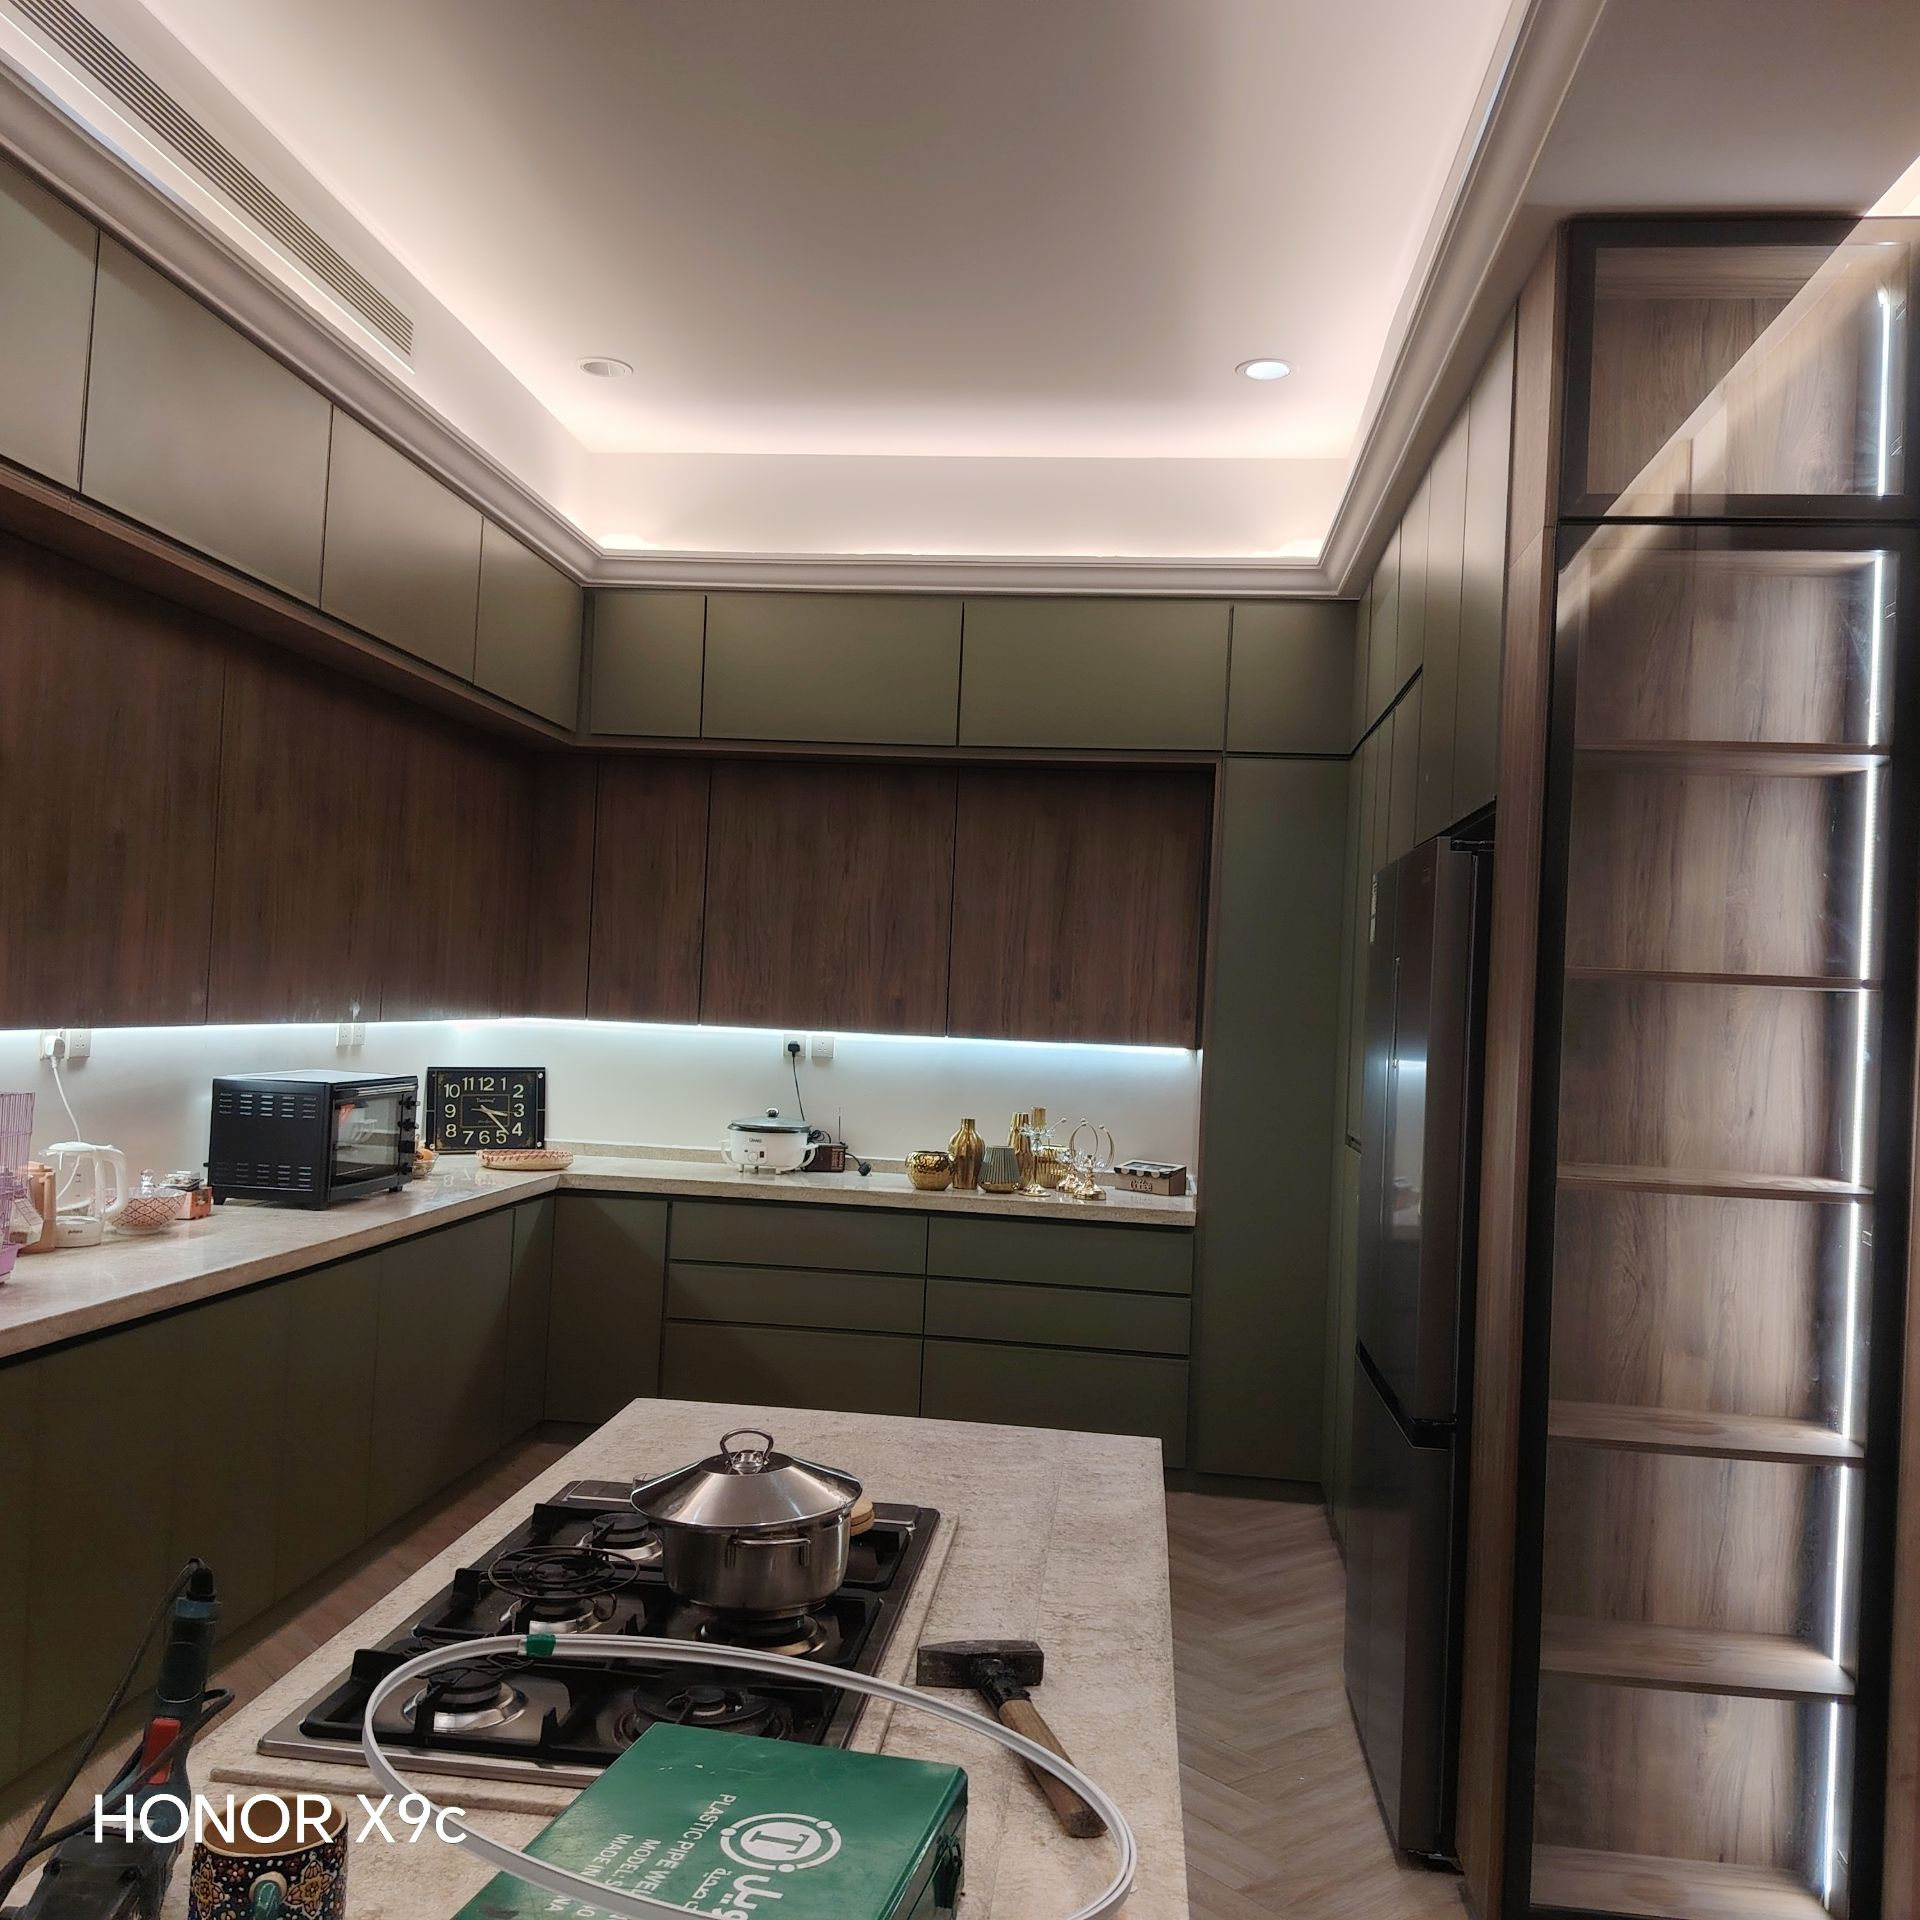
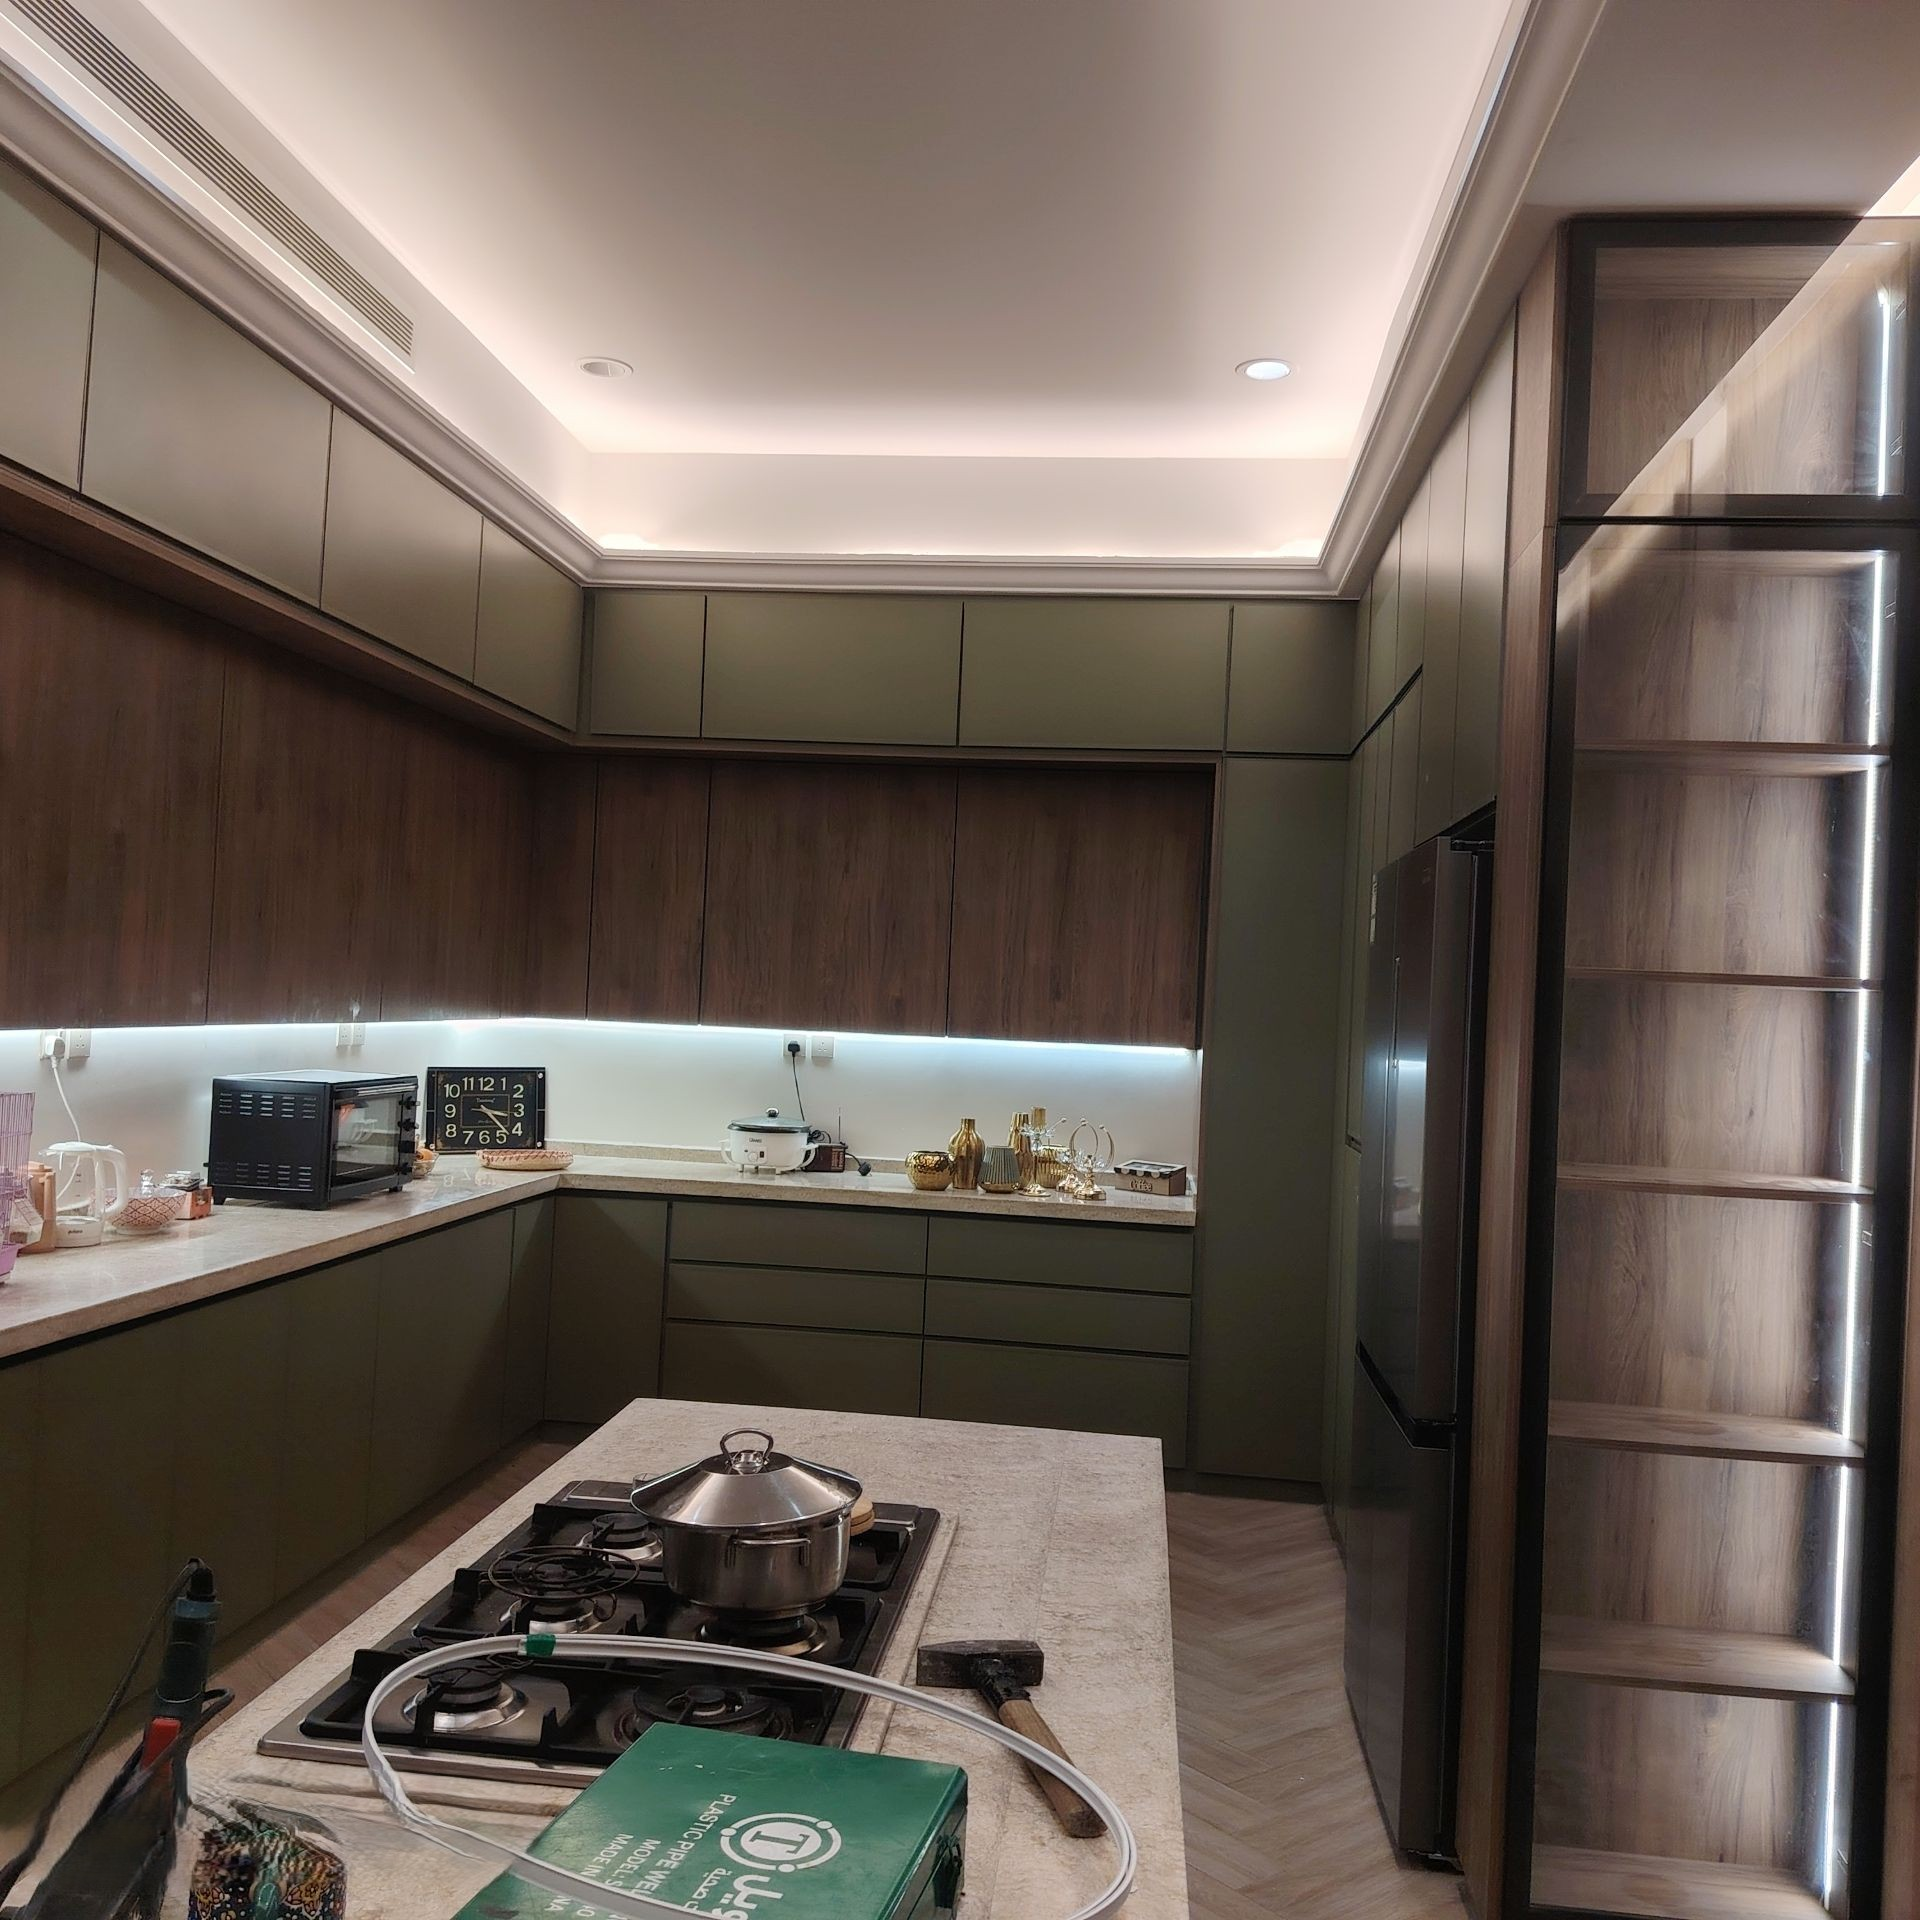
Update image attributes and service data for improved clarity and performance
- Modified image attributes in Hero.vue to include 'object-center' for better visual alignment.
- Updated serviceDrafts in index.ts with new image sources and alt texts for enhanced accuracy and consistency.
- Removed obsolete image files to streamline the asset management.

Changed region(s): [[0.0, 0.9062, 0.2812, 1.0]]

diff --git a/app/shared/data/services/index.ts b/app/shared/data/services/index.ts
@@ -66,15 +66,15 @@ const serviceDrafts: ServiceDraft[] = [
         alt: 'ثريا كريستال في السقف',
       },
       {
-        src: '/images/services/lighting-downlight-grid.jpg',
-        alt: 'سبوت موزع على السقف',
+        src: '/images/services/lighting-spot-grid.jpg',
+        alt: 'سبوت موزّع على السقف',
       },
       {
-        src: '/images/services/lighting-glass-rods.jpg',
+        src: '/images/services/123.jpg',
         alt: 'إضاءة معلّقة بعد التركيب',
       },
       {
-        src: '/images/services/lighting-petal-chandelier.jpg',
+        src: '/images/services/lighting-glass-cloud.jpg',
         alt: 'ثريا مركّبة في السقف',
       },
     ],
@@ -96,17 +96,19 @@ const serviceDrafts: ServiceDraft[] = [
         alt: 'سقف بليد هندسي مخفي',
       },
       {
+        src: '/images/services/led-ceiling-frame.jpg',
+        alt: 'ليد مستطيل في السقف وقت التركيب',
+      },
+      {
         src: '/images/services/led-tiered-ceiling.jpg',
         alt: 'ليد مخفي في سقف طبقات',
       },
-      {
-        src: '/images/services/led-cross-tracks.jpg',
-        alt: 'سلاكات ليد متقاطعة في السقف',
-      },
+
       {
         src: '/images/services/led-kitchen-cabinets.jpg',
         alt: 'ليد تحت خزائن المطبخ',
       },
+
     ],
   },
   {

diff --git a/app/components/site/service-detail/Hero.vue b/app/components/site/service-detail/Hero.vue
@@ -37,7 +37,7 @@ const selectImage = (index: number) => {
               class="absolute inset-0 block size-full"
               :preload="{ fetchPriority: 'high' }"
               loading="eager"
-              :img-attrs="{ class: 'size-full object-cover' }"
+              :img-attrs="{ class: 'size-full object-cover object-center' }"
               sizes="100vw md:50vw"
             />
           </Transition>
